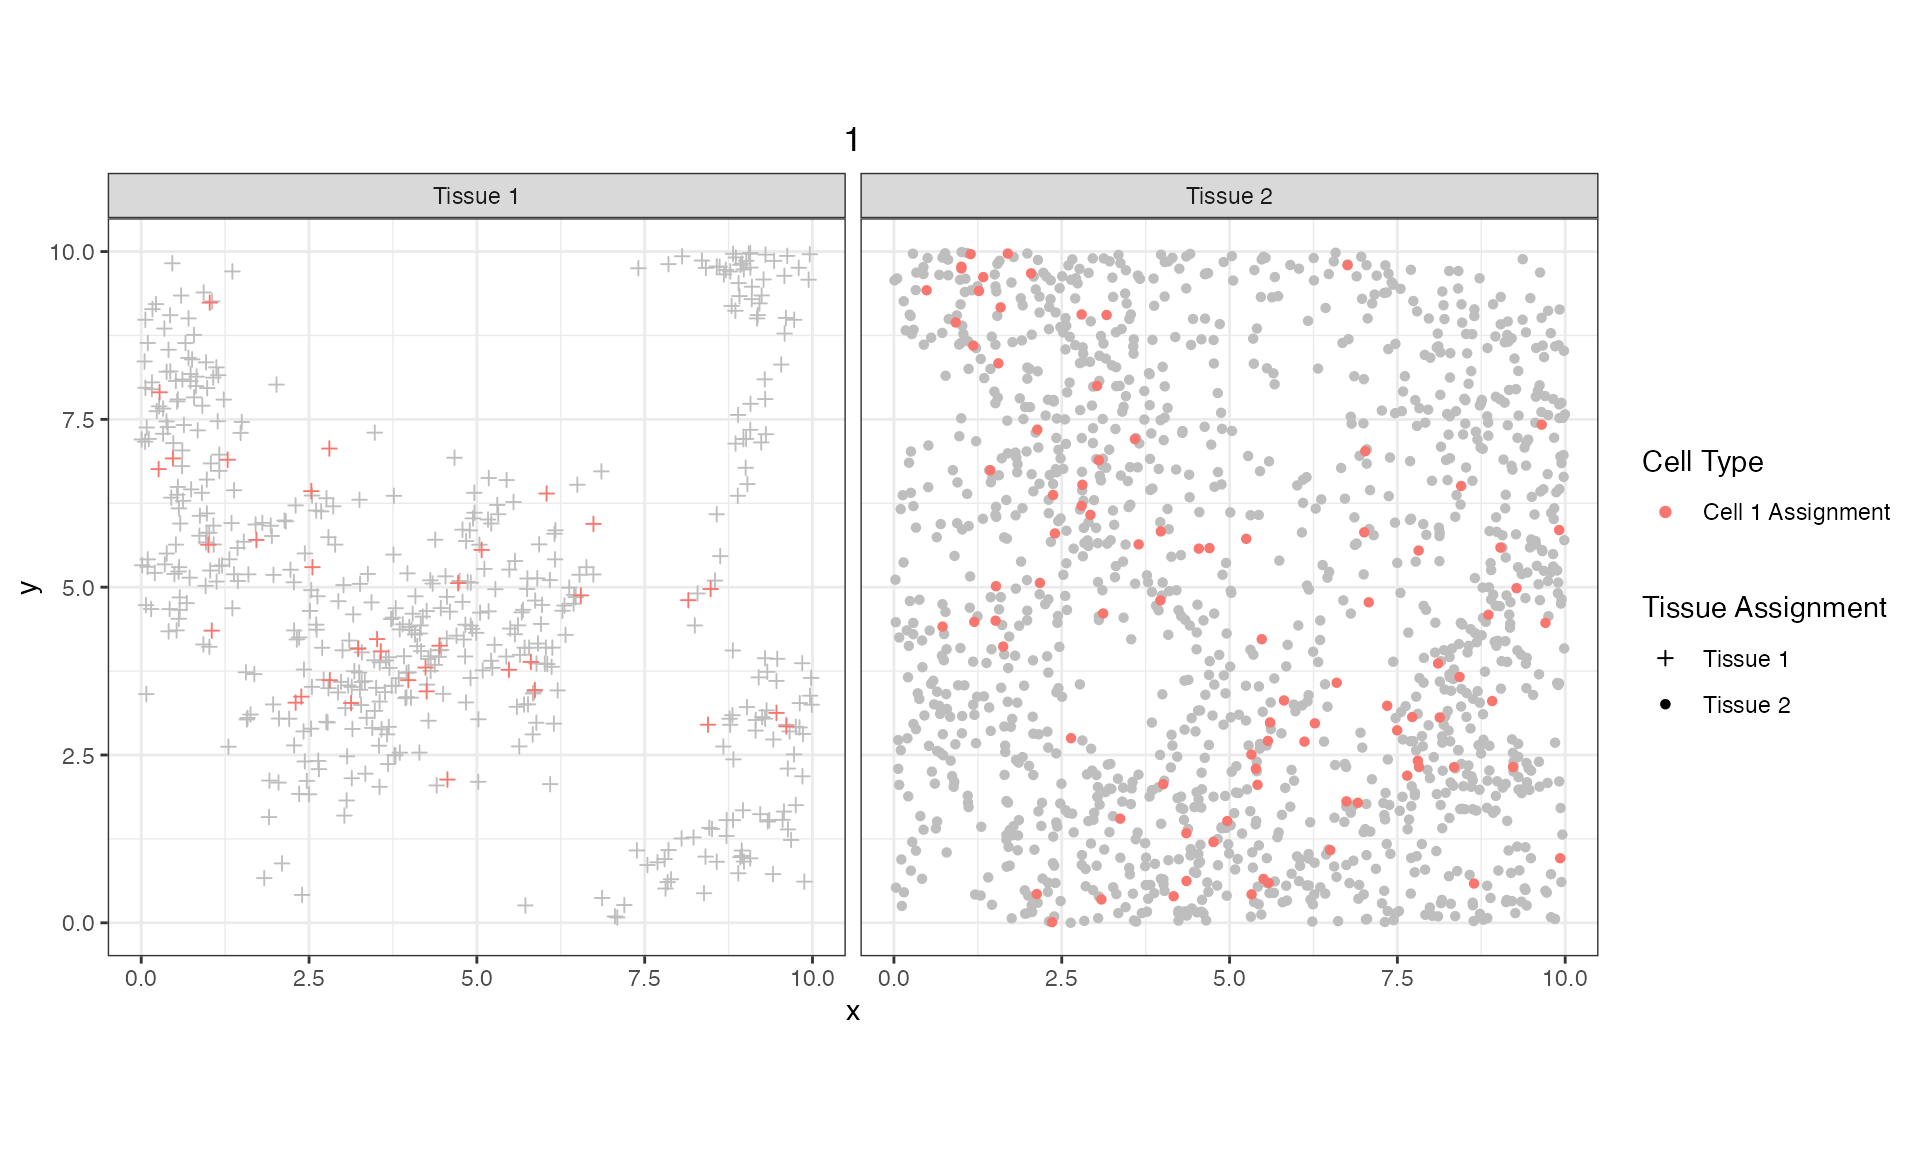
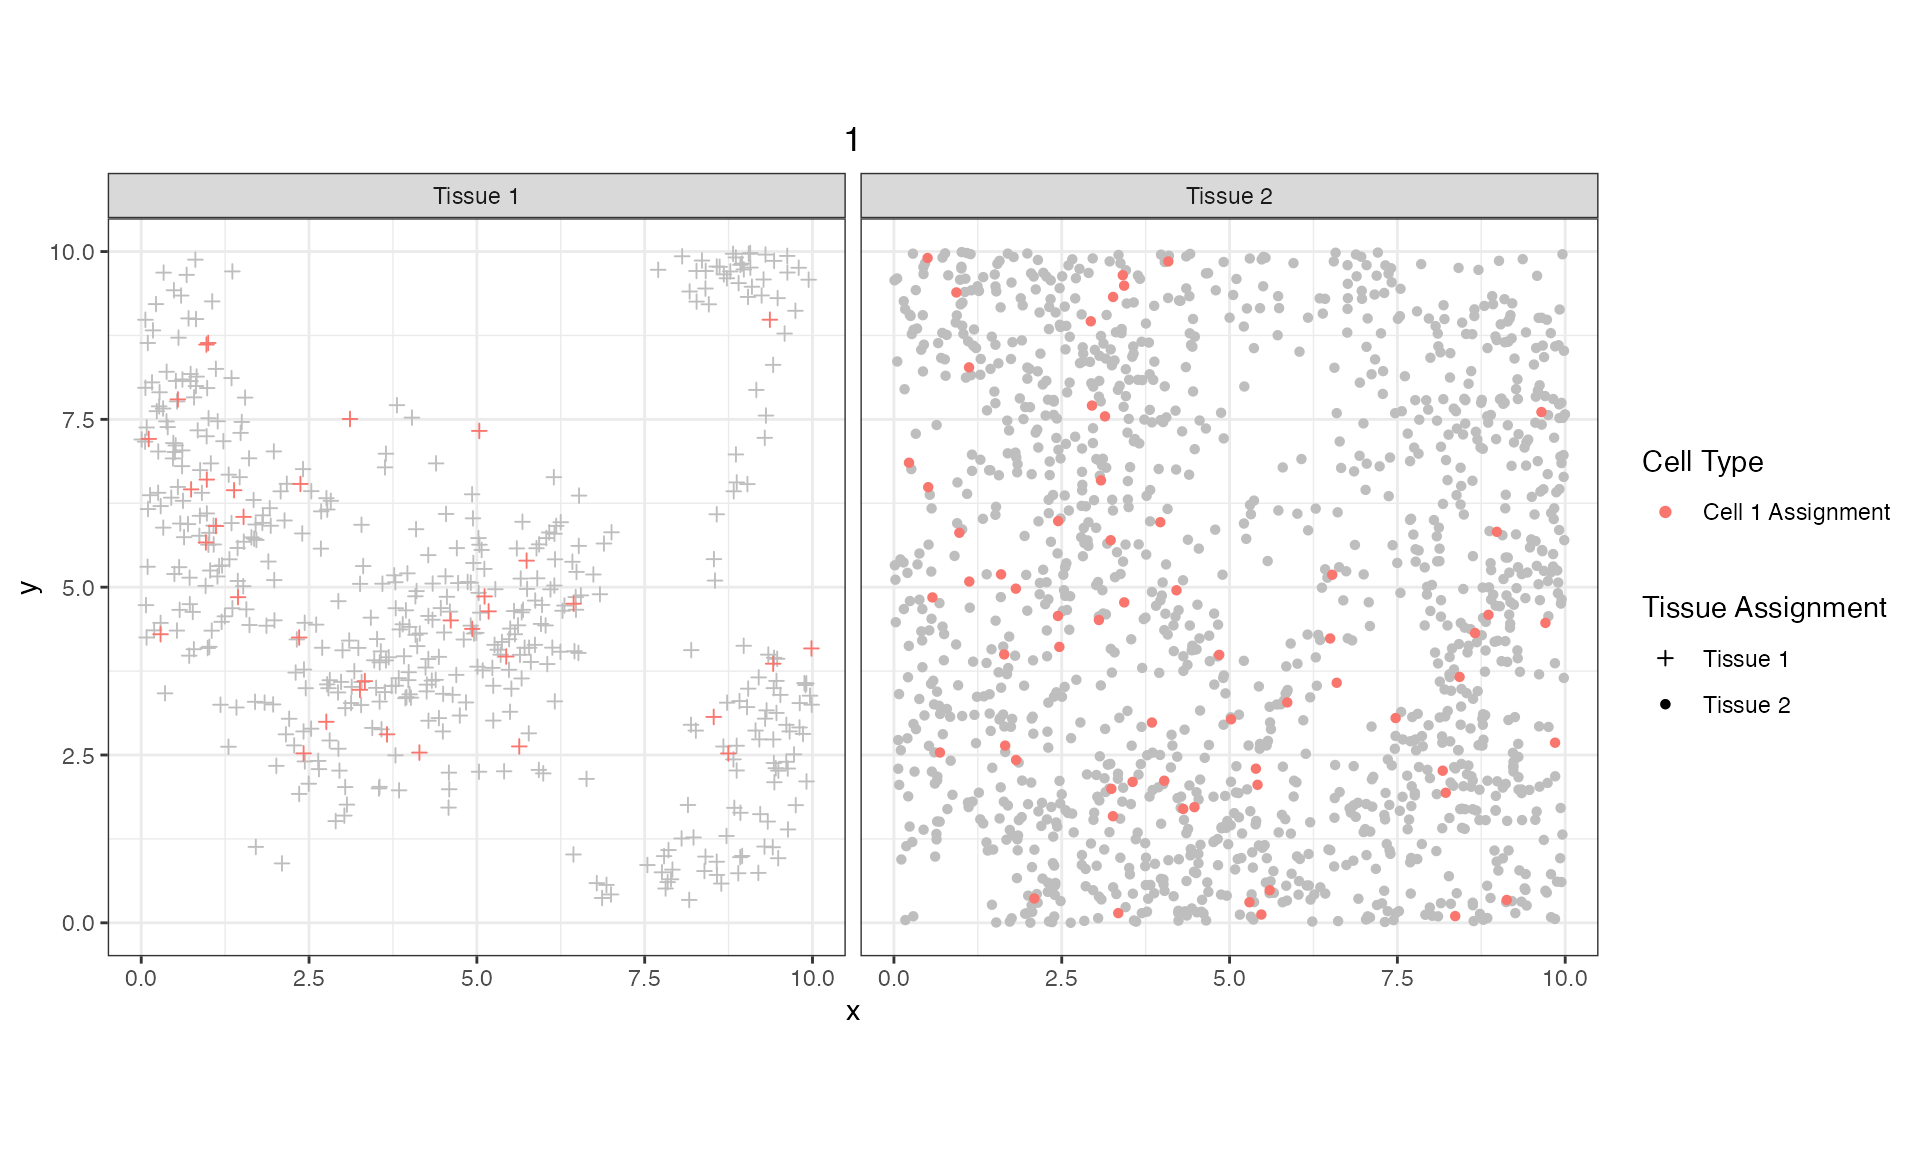
stroma to probability surface

diff --git a/docs/articles/a01_Introduction.html b/docs/articles/a01_Introduction.html
@@ -460,11 +460,11 @@ cell types.</p>
 <code class="sourceCode R"><span><span class="va">spatial_list</span> <span class="op">=</span> <span class="fu"><a href="../reference/CreateSpatialList.html">CreateSpatialList</a></span><span class="op">(</span>sim_object <span class="op">=</span> <span class="va">bivariate_sim_tmp</span><span class="op">)</span></span>
 <span><span class="fu"><a href="https://rdrr.io/r/utils/head.html" class="external-link">head</a></span><span class="op">(</span><span class="va">spatial_list</span><span class="op">[[</span><span class="fl">1</span><span class="op">]</span><span class="op">]</span><span class="op">)</span></span>
 <span><span class="co">#&gt;           x        y Tissue Assignment Cell 1 Assignment Cell 2 Assignment</span></span>
-<span><span class="co">#&gt; 1 5.7130558 1.274980          Tissue 2                 0                 0</span></span>
-<span><span class="co">#&gt; 2 0.2011937 2.748664          Tissue 2                 0                 0</span></span>
+<span><span class="co">#&gt; 1 5.7130558 1.274980          Tissue 1                 0                 0</span></span>
+<span><span class="co">#&gt; 2 0.2011937 2.748664          Tissue 1                 1                 0</span></span>
 <span><span class="co">#&gt; 3 7.2355739 6.800332          Tissue 2                 0                 0</span></span>
-<span><span class="co">#&gt; 4 6.0939363 6.601037          Tissue 2                 0                 0</span></span>
-<span><span class="co">#&gt; 5 3.0671935 2.480361          Tissue 1                 0                 0</span></span>
+<span><span class="co">#&gt; 4 6.0939363 6.601037          Tissue 2                 0                 1</span></span>
+<span><span class="co">#&gt; 5 3.0671935 2.480361          Tissue 2                 0                 0</span></span>
 <span><span class="co">#&gt; 6 0.6350984 1.242892          Tissue 1                 0                 0</span></span></code></pre></div>
 <p>Alternatively, there is the ability with
 <code><a href="../reference/CreateSpatialList.html">CreateSpatialList()</a></code> to export all of the spatial pattern
@@ -477,17 +477,17 @@ level counts for the different cell types.</p>
 <code class="sourceCode R"><span><span class="va">single_dataframe</span> <span class="op">=</span> <span class="fu"><a href="../reference/CreateSpatialList.html">CreateSpatialList</a></span><span class="op">(</span>sim_object <span class="op">=</span> <span class="va">bivariate_sim_tmp</span>, single_df <span class="op">=</span> <span class="cn">TRUE</span><span class="op">)</span></span>
 <span><span class="fu"><a href="https://rdrr.io/r/utils/head.html" class="external-link">head</a></span><span class="op">(</span><span class="va">single_dataframe</span><span class="op">)</span></span>
 <span><span class="co">#&gt;       Image Name         x        y Tissue Assignment Cell 1 Assignment</span></span>
-<span><span class="co">#&gt; 1 Spatial Data 1 5.7130558 1.274980          Tissue 2                 0</span></span>
-<span><span class="co">#&gt; 2 Spatial Data 1 0.2011937 2.748664          Tissue 2                 0</span></span>
+<span><span class="co">#&gt; 1 Spatial Data 1 5.7130558 1.274980          Tissue 1                 0</span></span>
+<span><span class="co">#&gt; 2 Spatial Data 1 0.2011937 2.748664          Tissue 1                 1</span></span>
 <span><span class="co">#&gt; 3 Spatial Data 1 7.2355739 6.800332          Tissue 2                 0</span></span>
 <span><span class="co">#&gt; 4 Spatial Data 1 6.0939363 6.601037          Tissue 2                 0</span></span>
-<span><span class="co">#&gt; 5 Spatial Data 1 3.0671935 2.480361          Tissue 1                 0</span></span>
+<span><span class="co">#&gt; 5 Spatial Data 1 3.0671935 2.480361          Tissue 2                 0</span></span>
 <span><span class="co">#&gt; 6 Spatial Data 1 0.6350984 1.242892          Tissue 1                 0</span></span>
 <span><span class="co">#&gt;   Cell 2 Assignment</span></span>
 <span><span class="co">#&gt; 1                 0</span></span>
 <span><span class="co">#&gt; 2                 0</span></span>
 <span><span class="co">#&gt; 3                 0</span></span>
-<span><span class="co">#&gt; 4                 0</span></span>
+<span><span class="co">#&gt; 4                 1</span></span>
 <span><span class="co">#&gt; 5                 0</span></span>
 <span><span class="co">#&gt; 6                 0</span></span></code></pre></div>
 <div class="sourceCode" id="cb19"><pre class="downlit sourceCode r">
@@ -496,11 +496,11 @@ level counts for the different cell types.</p>
 <span><span class="co">#&gt; <span style="color: #949494;"># A tibble: 5 × 6</span></span></span>
 <span><span class="co">#&gt;   `Sample Tag`   `Total Cells` `Cell 1 Assignment` `Cell 2 Assignment`</span></span>
 <span><span class="co">#&gt;   <span style="color: #949494; font-style: italic;">&lt;chr&gt;</span>                  <span style="color: #949494; font-style: italic;">&lt;int&gt;</span>               <span style="color: #949494; font-style: italic;">&lt;dbl&gt;</span>               <span style="color: #949494; font-style: italic;">&lt;dbl&gt;</span></span></span>
-<span><span class="co">#&gt; <span style="color: #BCBCBC;">1</span> Spatial Data 1          <span style="text-decoration: underline;">2</span>495                 128                 116</span></span>
-<span><span class="co">#&gt; <span style="color: #BCBCBC;">2</span> Spatial Data 2          <span style="text-decoration: underline;">2</span>450                 134                 102</span></span>
-<span><span class="co">#&gt; <span style="color: #BCBCBC;">3</span> Spatial Data 3          <span style="text-decoration: underline;">2</span>500                 141                 117</span></span>
-<span><span class="co">#&gt; <span style="color: #BCBCBC;">4</span> Spatial Data 4          <span style="text-decoration: underline;">2</span>514                 152                 104</span></span>
-<span><span class="co">#&gt; <span style="color: #BCBCBC;">5</span> Spatial Data 5          <span style="text-decoration: underline;">2</span>486                 134                 125</span></span>
+<span><span class="co">#&gt; <span style="color: #BCBCBC;">1</span> Spatial Data 1          <span style="text-decoration: underline;">2</span>495                 131                  99</span></span>
+<span><span class="co">#&gt; <span style="color: #BCBCBC;">2</span> Spatial Data 2          <span style="text-decoration: underline;">2</span>450                 147                  96</span></span>
+<span><span class="co">#&gt; <span style="color: #BCBCBC;">3</span> Spatial Data 3          <span style="text-decoration: underline;">2</span>500                 132                 100</span></span>
+<span><span class="co">#&gt; <span style="color: #BCBCBC;">4</span> Spatial Data 4          <span style="text-decoration: underline;">2</span>514                 141                  90</span></span>
+<span><span class="co">#&gt; <span style="color: #BCBCBC;">5</span> Spatial Data 5          <span style="text-decoration: underline;">2</span>486                 127                 118</span></span>
 <span><span class="co">#&gt; <span style="color: #949494;"># ℹ 2 more variables: `% Cell 1 Assignment` &lt;dbl&gt;, `% Cell 2 Assignment` &lt;dbl&gt;</span></span></span></code></pre></div>
 <p>The spatial list and summary table can now be used with packages like
 <a href="https://github.com/FridleyLab/spatialTIME" class="external-link">spatialTIME</a> to compute spatial statistics on all of the
